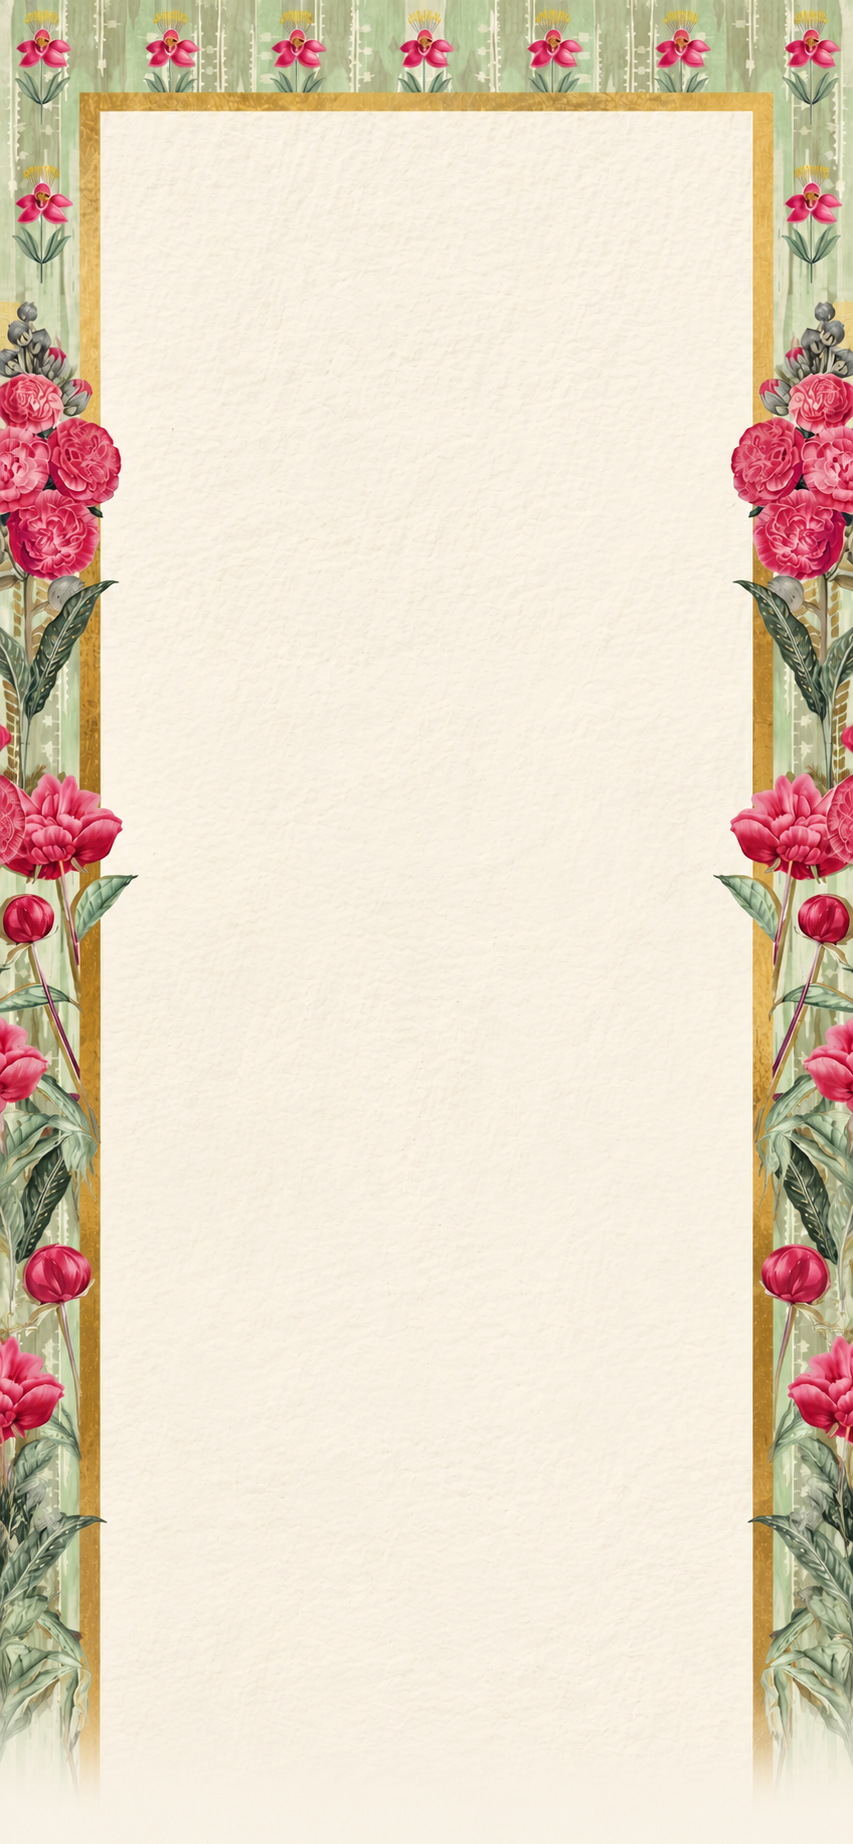
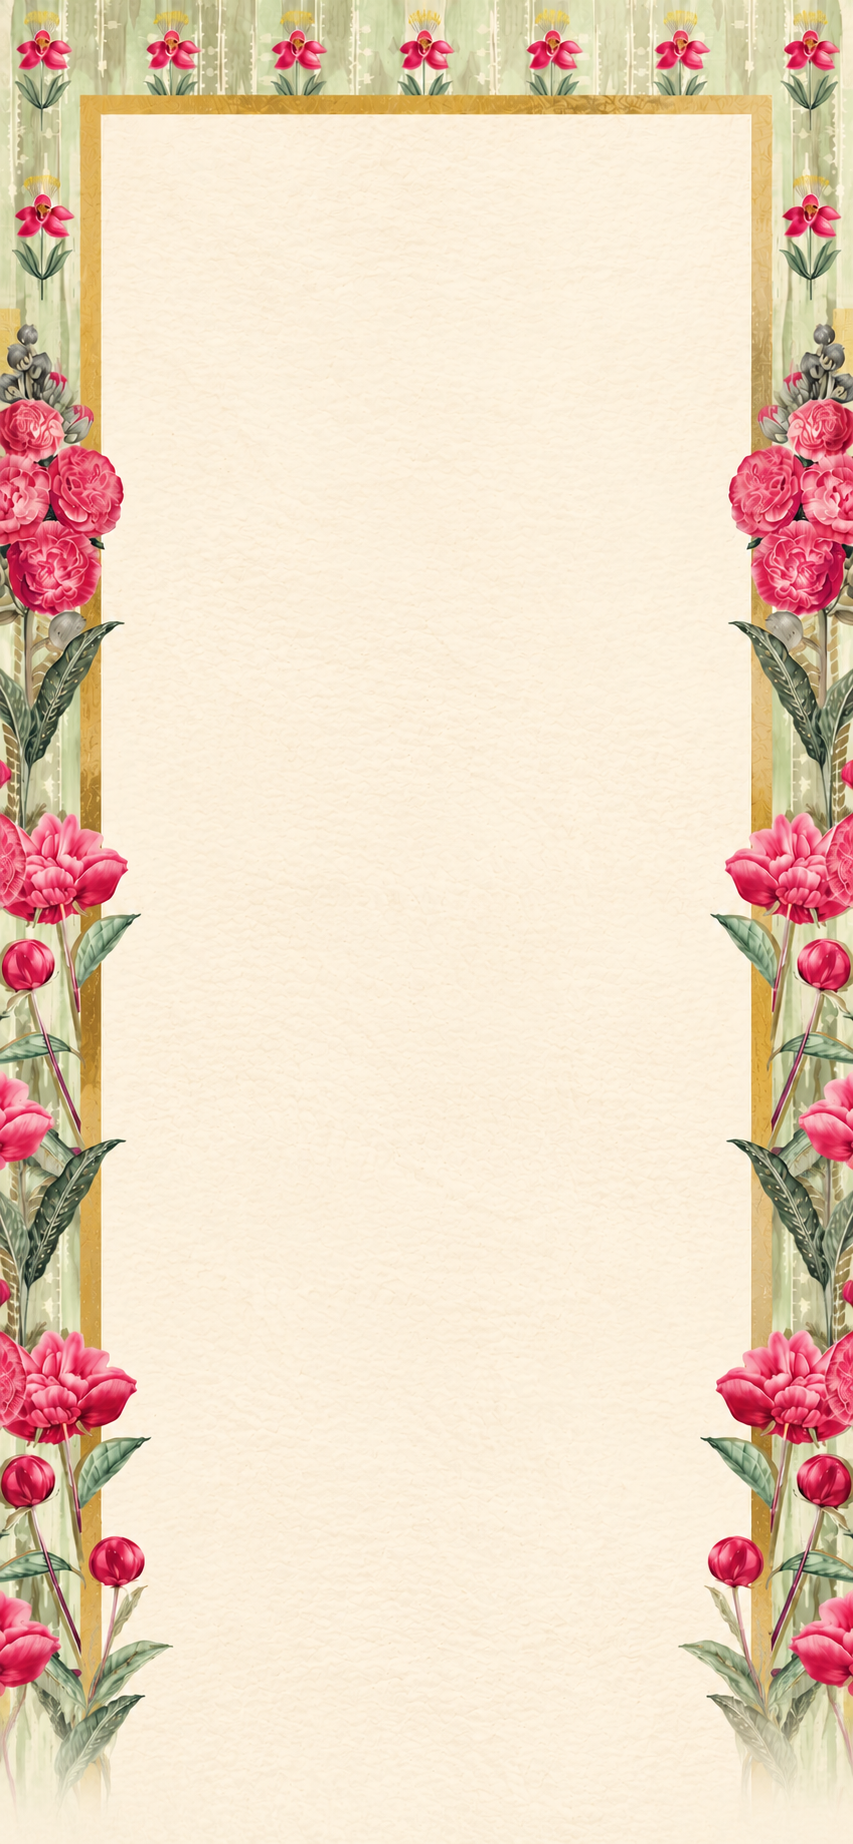
Add second background and bus arrival animation

Changed region(s): [[0.0, 0.0, 1.0, 0.9892]]

diff --git a/main.js b/main.js
@@ -15,7 +15,6 @@ document.addEventListener('DOMContentLoaded', () => {
   }
 
 
-
   const bgAudio = document.getElementById('bg-audio');
   
   const playAudio = async () => {
@@ -42,6 +41,14 @@ document.addEventListener('DOMContentLoaded', () => {
       
       // Start audio automatically since this was a user interaction!
       playAudio();
+
+      // Trigger the bus animation reliably 4 seconds after opening
+      const busImg = document.getElementById('bus-img');
+      if (busImg) {
+        setTimeout(() => {
+          busImg.classList.add('drive-in');
+        }, 4000);
+      }
     }, 1000); // Wait for the CSS fade-out transition (1s)
   });
 

diff --git a/style.css b/style.css
@@ -88,6 +88,25 @@ img {
   min-height: min(100vw, 480px); 
 }
 
+.bus-img {
+  position: absolute;
+  bottom: -3%; /* Pulls the bus slightly lower, over the seam */
+  left: 0;
+  right: 0;
+  margin: 0 auto;
+  width: min(80vw, 350px);
+  height: auto;
+  /* Start completely off-screen to the left */
+  transform: translateX(-150vw);
+  transition: transform 1.5s cubic-bezier(0.25, 1, 0.5, 1);
+  z-index: 10;
+}
+
+.bus-img.drive-in {
+  /* Drive to the middle */
+  transform: translateX(0);
+}
+
 .cover-box-content {
   position: absolute;
   top: 7%; 

diff --git a/index.html b/index.html
@@ -84,6 +84,13 @@
 
         <h2 class="venue-text">SHIVGARH COUNTRY CLUB,<br>LUCKNOW</h2>
       </div>
+      
+      <!-- Bus drives over the bottom of the first background -->
+      <img src="/assets/bus.png" alt="Wedding Bus" class="bus-img" id="bus-img" />
+    </div>
+
+    <div class="cover-wrapper" id="bg-2-wrapper">
+      <img src="/assets/bg 2.png" alt="Additional Background" class="cover-bg" />
     </div>
     
 
